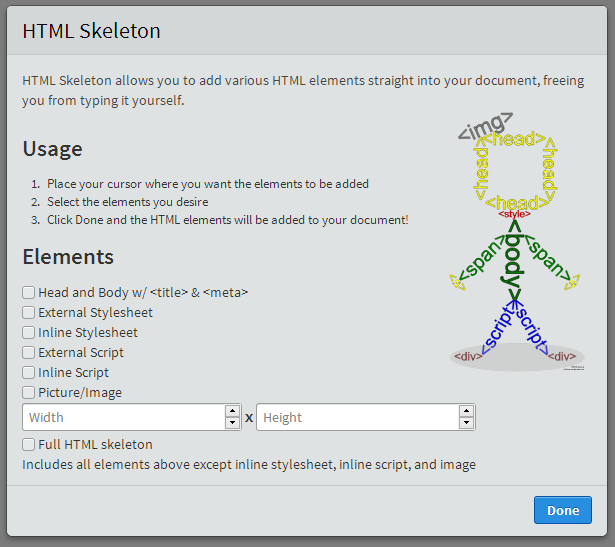
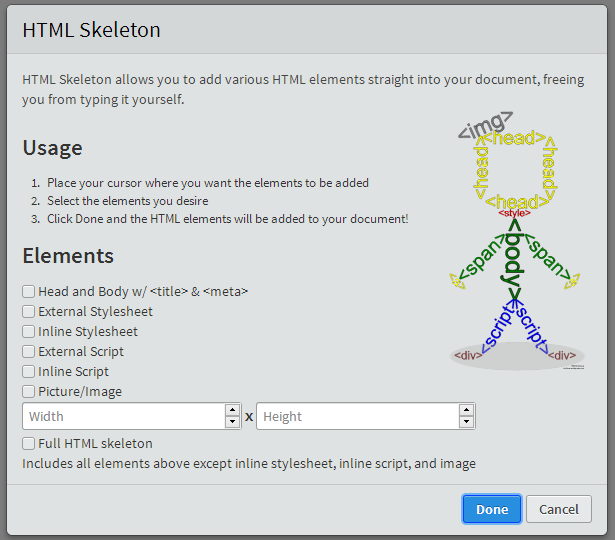
v1.1.2

diff --git a/main.js b/main.js
@@ -212,7 +212,7 @@ define(function (require, exports, module) {
         ExtensionUtils.loadStyleSheet(module, "css/style.css");
 
         // Assign a keyboard shortcut and item in Edit menu
-        CommandManager.register("Insert HTML elements \u2026", EXTENSION_ID, _showSkellyDialog);
+        CommandManager.register("Insert HTML elements\u2026", EXTENSION_ID, _showSkellyDialog);
         var menu = Menus.getMenu(Menus.AppMenuBar.EDIT_MENU);
         menu.addMenuItem(EXTENSION_ID, "Ctrl-Shift-N");
     });

diff --git a/README.md b/README.md
@@ -24,7 +24,7 @@ Method 3: Download directly from GitHub using [https://github.com/le717/brackets
 
 # News #
 
-* 1.1.2, 2/15/14 - Fixed improper placement of external stylesheet when combined with "Head and body w/title & meta" option ([#4](https://github.com/le717/brackets-html-skeleton/issues/4)), added Cancel button to dialog, fixed incorrect HTML tags and attributes
+* 1.1.2, 2/18/14 - Fixed improper placement of external stylesheet when combined with "Head and body w/title & meta" option ([#4](https://github.com/le717/brackets-html-skeleton/issues/4)), added Cancel button to dialog, fixed incorrect HTML tags and attributes
 * 1.1.1, 2/10/14 - Fixed extension not even working ([#3](https://github.com/le717/brackets-html-skeleton/issues/3)), fix Brackets UI guideline violations
 * 1.1.0, 2/8/14 - Inspired by [adobe/brackets#6707](https://github.com/adobe/brackets/issues/6707), HTML Skeleton has been completely rewritten
 to support new HTML elements using a dialog box rather than a straight keyboard shortcut
